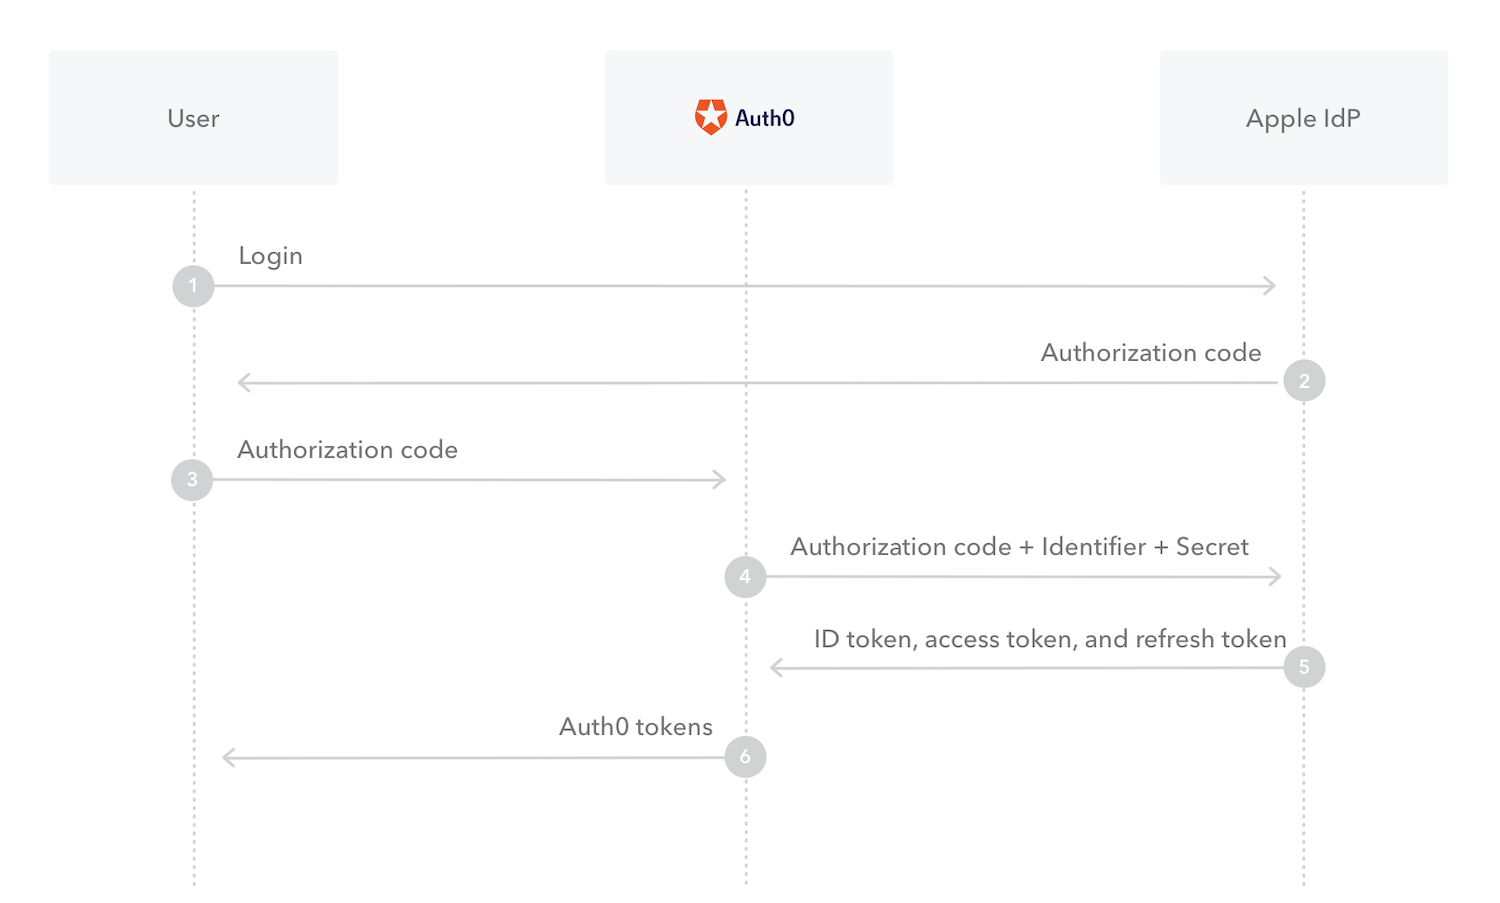
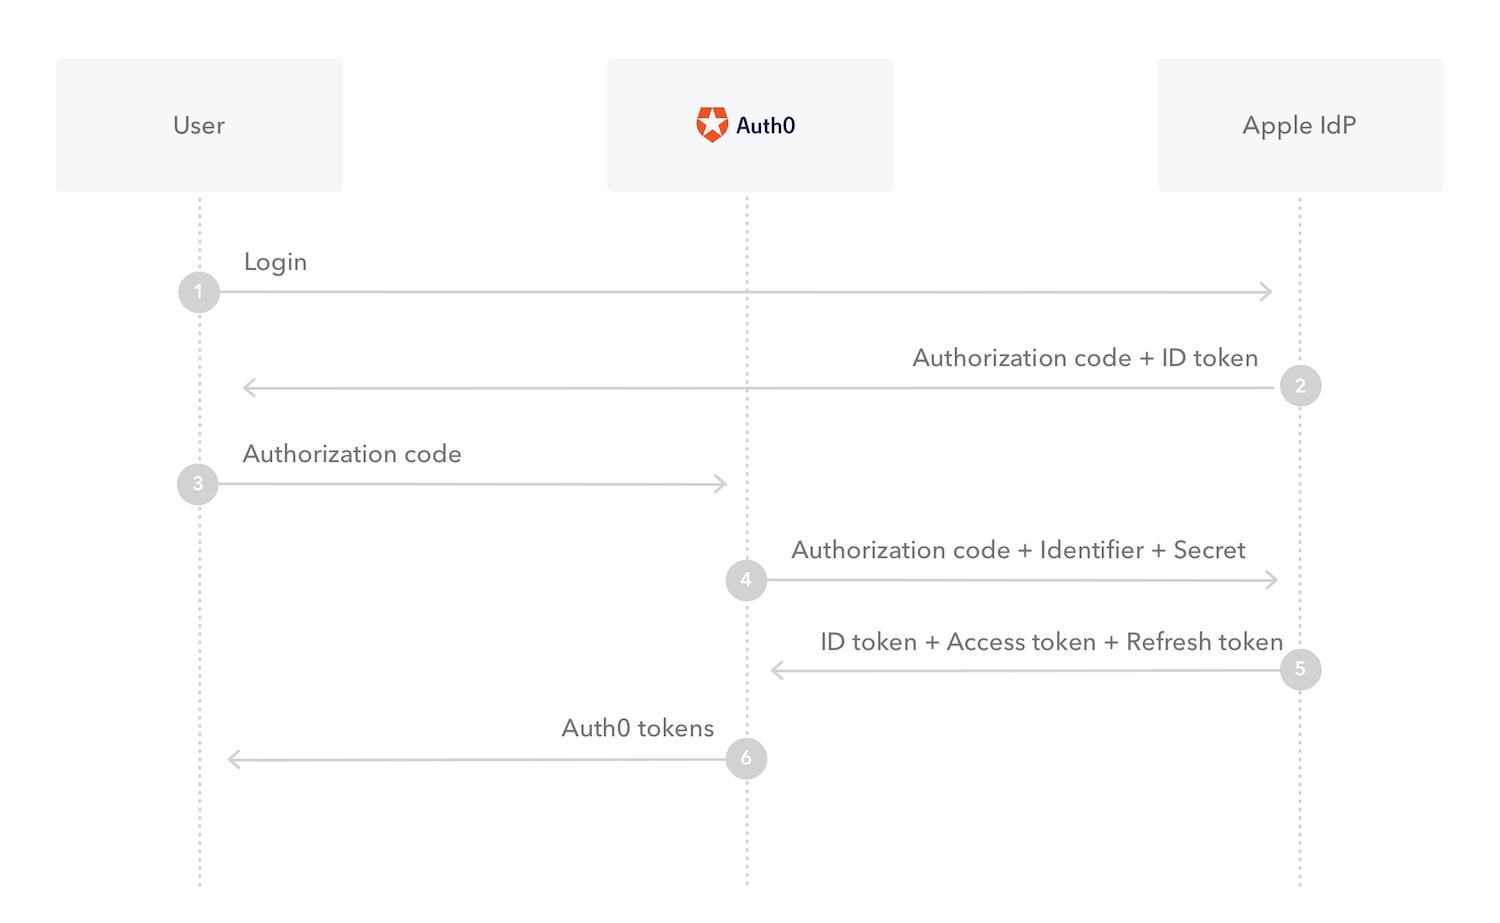
Typo and new diagram
Typo and new diagram

diff --git a/articles/connections/social/apple.md b/articles/connections/social/apple.md
@@ -18,7 +18,7 @@ useCase:
 ---
 # Add Sign In with Apple to Your App
 
-Auth0 enables you to use the Sign In with Apple (SIWA) capability to provide Apple-based authentication to your applications. You can include SIWA for your native Apple applications, web applications, or applcationss that run on other platforms (such as Android).
+Auth0 enables you to use the Sign In with Apple (SIWA) capability to provide Apple-based authentication to your applications. You can include SIWA for your native Apple applications, web applications, or applcations that run on other platforms (such as Android).
 
 ::: warning
 The [Apple App Store Developer Guidelines](https://developer.apple.com/app-store/review/guidelines/#sign-in-with-apple) require that SIWA must be available in all applications that exclusively use third-party sign-in options such as Facebook or Google.
